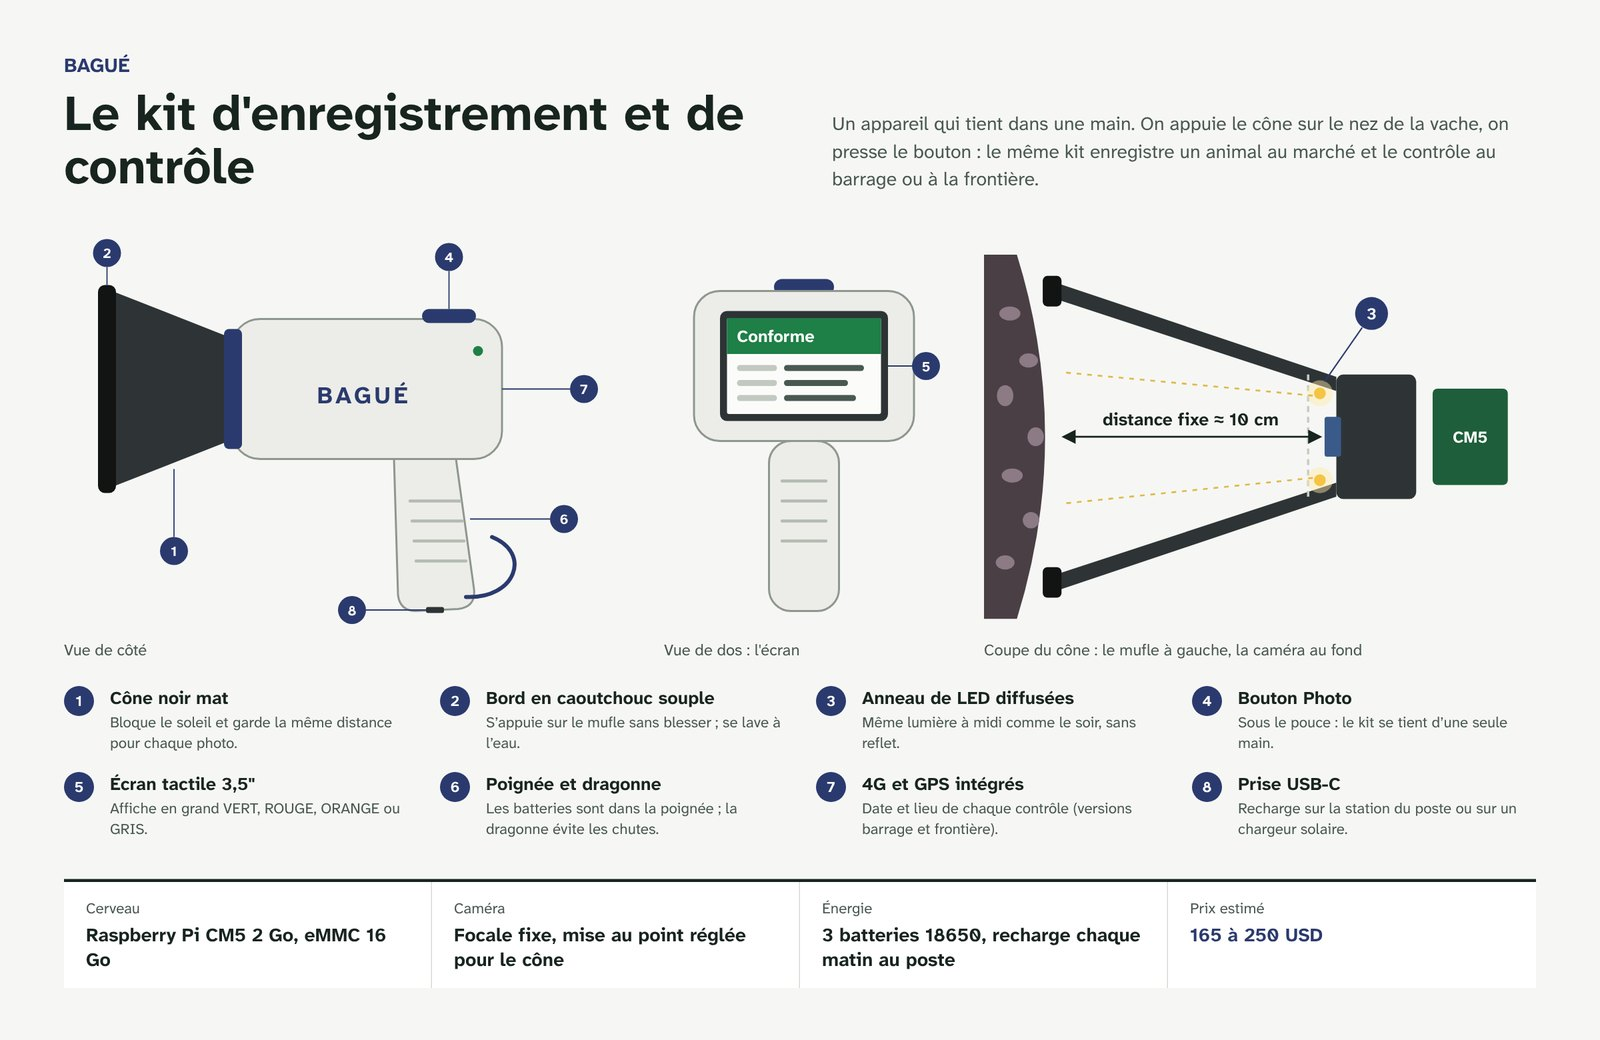
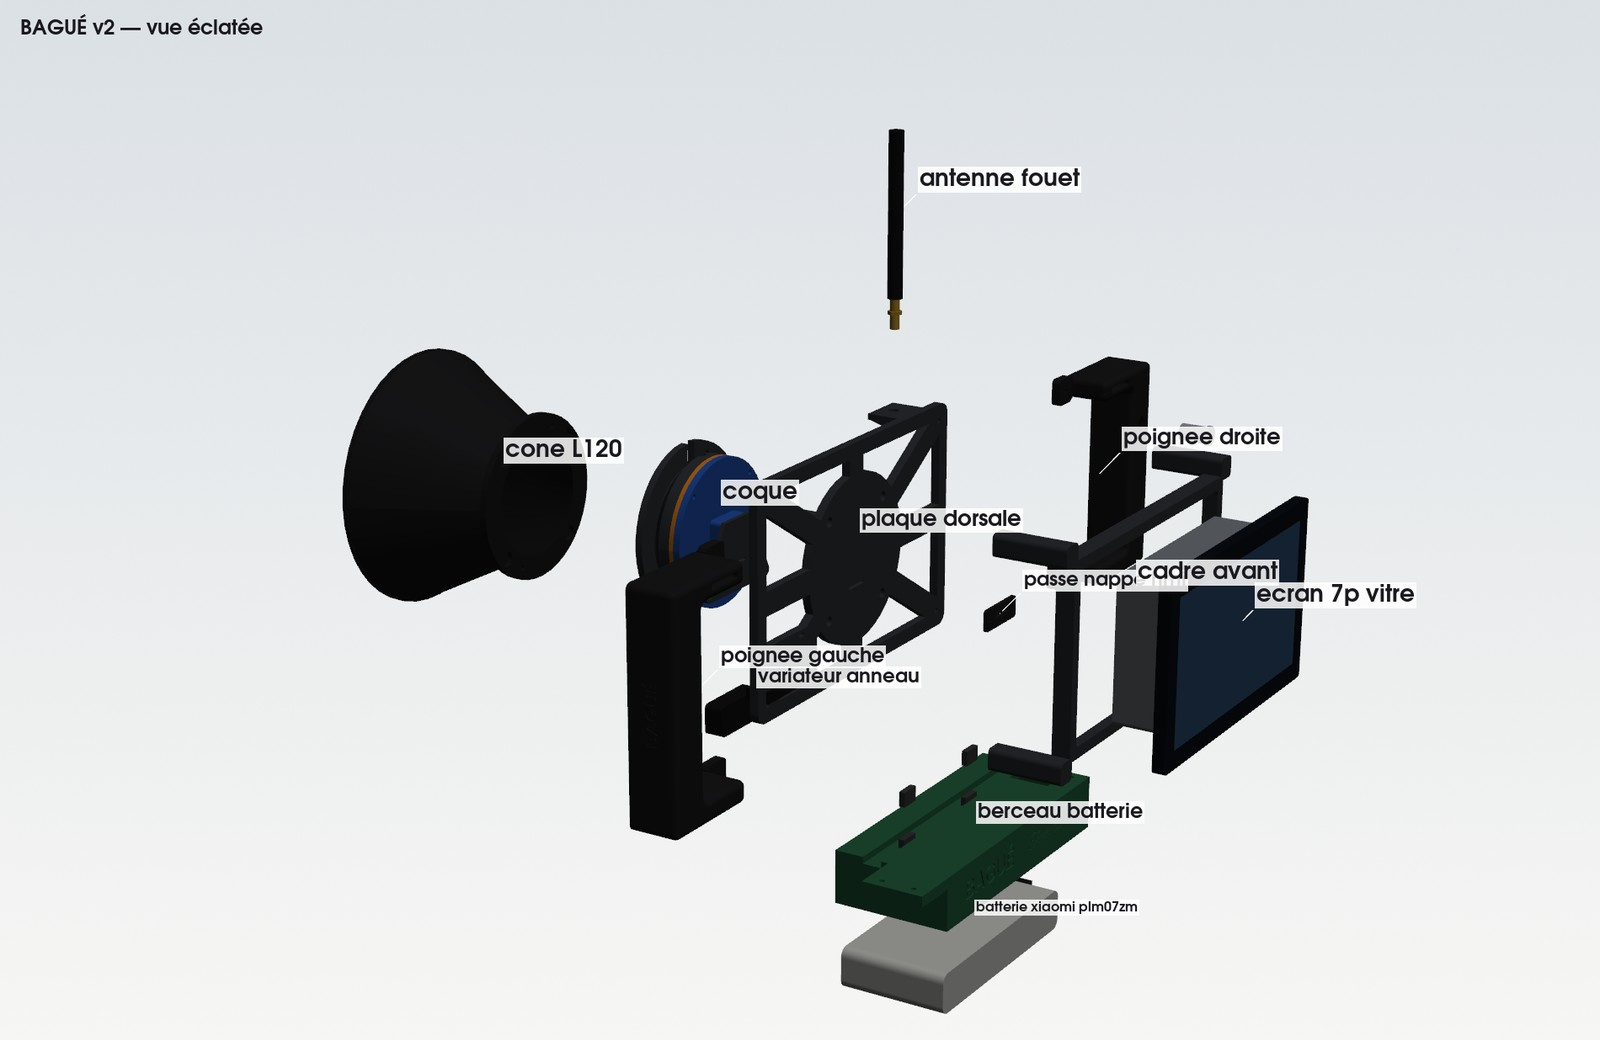
Vitrine BAGUÉ 0.4.0 — kit v2

diff --git a/site/3d.html b/site/3d.html
@@ -10,7 +10,7 @@
 <meta property="og:site_name" content="BAGUÉ">
 <meta property="og:locale" content="fr_FR">
 <meta property="og:title" content="Matériel BAGUÉ en 3D">
-<meta property="og:description" content="Faites tourner le kit de contrôle BAGUÉ et le poste fixe en 3D : cône sur le mufle, écran, poignée, batterie.">
+<meta property="og:description" content="Faites tourner le kit de contrôle BAGUÉ et le poste fixe en 3D : écran 7 pouces, deux poignées, bouton photo, cône sur le mufle, batterie.">
 <meta property="og:url" content="https://bague-guinee.github.io/bague-vitrine/3d.html">
 <meta property="og:image" content="https://bague-guinee.github.io/bague-vitrine/images/apercu.png"> <meta property="og:image:width" content="1200"> <meta property="og:image:height" content="630"> <meta property="og:image:alt" content="Le kit BAGUÉ et le logo : identifier chaque bovin par son mufle">
 <meta name="twitter:card" content="summary_large_image">
@@ -104,14 +104,15 @@
     },
     kit: {
       title: "Le kit de terrain",
-      meta: "<span><b>Usage</b> : enregistrer et contrôler</span><span><b>Cerveau</b> : Raspberry Pi CM5 2 Go</span><span><b>Prix estimé</b> : 165 à 250 USD</span>",
+      meta: "<span><b>Usage</b> : enregistrer et contrôler</span><span><b>Cerveau</b> : Raspberry Pi CM5 4 Go, écran 7 pouces</span><span><b>Prototype</b> : environ 400 USD</span>",
       items: [
-        ["Cône noir mat", "Bloque le soleil, garde la même distance pour chaque photo."],
-        ["Bord en caoutchouc", "Se pose sur le mufle sans blesser, se lave à l'eau."],
-        ["Anneau de LED", "Même lumière à midi comme le soir."],
-        ["Bouton Photo", "Sous le pouce : le kit se tient d'une main."],
-        ["Écran tactile 3,5\"", "Affiche VERT, ROUGE, ORANGE ou GRIS en grand."],
-        ["Poignée et dragonne", "Batteries 18650 dans la poignée."],
+        ["Cône noir mat aimanté", "Bloque le soleil, garde la même distance pour chaque photo. Trois longueurs, bord en caoutchouc."],
+        ["Anneau de LED", "Même lumière à midi comme le soir, intensité réglable."],
+        ["Écran tactile 7\"", "Affiche VERT, ROUGE, ORANGE ou GRIS en grand, lisible au soleil."],
+        ["Deux poignées", "Le kit se tient à deux mains, cône bien appuyé sur le mufle."],
+        ["Bouton Photo", "Sous le pouce droit : la photo se prend sans lâcher les poignées."],
+        ["Batterie 20 000 mAh", "Dans le berceau sous l'écran, échangée en une minute."],
+        ["Antenne Wi-Fi", "Envoie les contrôles dès qu'un réseau est disponible."],
       ],
     },
   };
@@ -300,43 +301,93 @@
     return g;
   }
 
-  // ---------- Le kit ----------
+  // ---------- Le kit (lecteur v2 : écran 7", deux poignées, cône aimanté) ----------
+  // Dessin simplifié du prototype v2 (mêmes proportions, en mètres), pas le fichier de fabrication.
+  function rrect(w, h, r, cx = 0, cy = 0) {
+    const s = roundedShape(w, h, r);
+    if (cx || cy) {
+      const pts = s.getPoints(8).map((p) => new THREE.Vector2(p.x + cx, p.y + cy));
+      return new THREE.Shape(pts);
+    }
+    return s;
+  }
+  // BAGUÉ et le nom de l'auteur, gravés en lettres simples sur la face avant du berceau.
+  const drawSignature = (g, w, h) => {
+    g.clearRect(0, 0, w, h);
+    g.fillStyle = "#2B3A6E"; g.textAlign = "center";
+    g.font = FONT.replace("{s}", 92); g.fillText("BAGUÉ", w * 0.3, 112);
+    g.font = FONT.replace("{s}", 54); g.fillText("Thierno Diallo", w * 0.74, 104);
+  };
+  const signatureTex = canvasTexture(1024, 160, drawSignature);
+  if (document.fonts && document.fonts.load) {
+    document.fonts.load("700 92px 'Atkinson Hyperlegible Next'")
+      .then(() => { drawSignature(signatureTex.image.getContext("2d"), 1024, 160); signatureTex.needsUpdate = true; })
+      .catch(() => {});
+  }
+
   function buildKit() {
     const g = new THREE.Group();
-    roundedBox(g, 0.2, 0.1, 0.09, 0.024, M.light, 0, 0, 0);
-    const cone = cyl(g, 0.043, 0.085, 0.13, new THREE.MeshStandardMaterial({ color: srgb(C.dark), roughness: 0.85, side: THREE.DoubleSide }), -0.165, 0, 0, 48, true);
-    cone.rotation.z = -Math.PI / 2;
-    const back = add(g, new THREE.CircleGeometry(0.043, 40), M.black, -0.1005, 0, 0); back.rotation.y = -Math.PI / 2;
-    const lens = cyl(g, 0.009, 0.009, 0.01, M.lens, -0.104, 0, 0, 20); lens.rotation.z = Math.PI / 2;
-    for (let i = 0; i < 10; i++) {
-      const a = (i / 10) * Math.PI * 2;
-      add(g, new THREE.SphereGeometry(0.0035, 10, 10), glow(0xF5C443), -0.103, Math.cos(a) * 0.03, Math.sin(a) * 0.03);
+    const coneMat = new THREE.MeshStandardMaterial({ color: srgb(C.dark), roughness: 0.85, side: THREE.DoubleSide });
+    const gold = mat(0xC9A24A, 0.35, 0.7);
+    const zAxis = (mesh) => { mesh.rotation.x = Math.PI / 2; return mesh; };
+
+    // Écran 7" dans son cadre (lèvre sur la bordure noire), boîtier CM5 derrière.
+    const frame = rrect(0.2, 0.123, 0.006);
+    frame.holes.push(rrect(0.185, 0.108, 0.004));
+    extrude(g, frame, 0.012, 0.0015, M.light, 0, 0, -0.004);
+    box(g, 0.193, 0.116, 0.008, M.black, 0, 0, -0.004);
+    plane(g, 0.158, 0.094, screenTex, 0, 0, 0.0006);
+    [[-1, -1], [1, -1], [-1, 1], [1, 1]].forEach(([sx, sy]) => box(g, 0.014, 0.014, 0.0475, M.light, sx * 0.1039, sy * 0.0654, -0.02175));
+    roundedBox(g, 0.136, 0.092, 0.0395, 0.006, M.metal, 0, 0, -0.02775);
+
+    // Plaque dorsale ajourée (porte la tête, l'antenne et le variateur).
+    const plate = rrect(0.23, 0.153, 0.008);
+    [[-1, -1], [1, -1], [-1, 1], [1, 1]].forEach(([sx, sy]) => plate.holes.push(rrect(0.04, 0.044, 0.006, sx * 0.083, sy * 0.04)));
+    extrude(g, plate, 0.006, 0.0012, M.dark, 0, 0, -0.0545);
+
+    // Deux poignées en C ; BAGUÉ sur le côté ; bouton photo sous le pouce droit.
+    [1, -1].forEach((side) => {
+      const c = new THREE.Shape([
+        [0.097, 0.0724], [0.183, 0.0724], [0.183, -0.0724], [0.097, -0.0724],
+        [0.097, -0.0584], [0.155, -0.0584], [0.155, 0.0584], [0.097, 0.0584],
+      ].map(([x, y]) => new THREE.Vector2(side * x, y)));
+      extrude(g, c, 0.032, 0.004, M.light, 0, 0, -0.0355);
+      const label = plane(g, 0.09, 0.028, sideTex, side * 0.1836, 0, -0.0355, true);
+      label.rotateY(side * Math.PI / 2);
+      label.rotateZ(Math.PI / 2);
+    });
+    zAxis(cyl(g, 0.0075, 0.0075, 0.004, M.indigo, 0.169, 0.03, -0.0175, 32));
+
+    // Berceau de la batterie sous l'écran, BAGUÉ et signature gravés devant.
+    roundedBox(g, 0.19, 0.036, 0.079, 0.006, M.light, 0.0155, -0.0904, -0.0375);
+    plane(g, 0.18, 0.028, signatureTex, 0.0155, -0.0904, 0.0021, true);
+
+    // Tête caméra : platine, colonnes, collerette, anneau de LED, puis le cône aimanté.
+    [[-1, -1], [1, -1], [-1, 1], [1, 1]].forEach(([sx, sy]) => zAxis(cyl(g, 0.005, 0.005, 0.015, M.dark, sx * 0.0325, sy * 0.0325, -0.065, 16)));
+    zAxis(cyl(g, 0.05, 0.05, 0.005, M.indigo, 0, 0, -0.0749, 48));
+    zAxis(cyl(g, 0.05, 0.05, 0.008, M.indigo, 0, 0, -0.0844, 48));
+    zAxis(cyl(g, 0.0428, 0.0428, 0.0208, M.dark, 0, 0, -0.0908, 48));
+    zAxis(cyl(g, 0.057, 0.057, 0.005, M.dark, 0, 0, -0.0989, 56));
+    const back = add(g, new THREE.CircleGeometry(0.04, 40), M.black, 0, 0, -0.1015); back.rotation.y = Math.PI;
+    zAxis(cyl(g, 0.0045, 0.0045, 0.004, M.lens, 0, 0, -0.1025, 20));
+    for (let i = 0; i < 14; i++) {
+      const a = (i / 14) * Math.PI * 2;
+      add(g, new THREE.SphereGeometry(0.0024, 10, 10), glow(0xF5C443), Math.cos(a) * 0.033, Math.sin(a) * 0.033, -0.1022);
     }
-    const rim = add(g, new THREE.TorusGeometry(0.085, 0.007, 12, 56), M.black, -0.23, 0, 0); rim.rotation.y = Math.PI / 2;
-    const collar = cyl(g, 0.05, 0.05, 0.016, M.indigo, -0.104, 0, 0, 40); collar.rotation.z = Math.PI / 2;
+    const cone = cyl(g, 0.085, 0.0404, 0.0955, coneMat, 0, 0, -0.149, 56, true);
+    cone.rotation.x = -Math.PI / 2;
+    add(g, new THREE.TorusGeometry(0.0865, 0.0045, 12, 64), M.black, 0, 0, -0.1969);
 
-    const handle = new THREE.Shape();
-    handle.moveTo(0.0, -0.04); handle.lineTo(0.058, -0.04);
-    handle.quadraticCurveTo(0.064, -0.04, 0.066, -0.05);
-    handle.lineTo(0.078, -0.16); handle.quadraticCurveTo(0.08, -0.178, 0.062, -0.178);
-    handle.lineTo(0.03, -0.18); handle.quadraticCurveTo(0.014, -0.18, 0.012, -0.165);
-    handle.lineTo(0.0, -0.05); handle.quadraticCurveTo(-0.002, -0.04, 0.0, -0.04);
-    extrude(g, handle, 0.05, 0.008, M.light, 0, 0, 0);
-    for (let i = 0; i < 4; i++) box(g, 0.05, 0.004, 0.052, M.louver, 0.042 + i * 0.003, -0.08 - i * 0.022, 0);
+    // Antenne Wi-Fi en haut à droite.
+    box(g, 0.032, 0.004, 0.022, M.dark, 0.076, 0.0744, -0.0685);
+    cyl(g, 0.0032, 0.0032, 0.012, gold, 0.076, 0.0806, -0.0695, 16);
+    cyl(g, 0.005, 0.0045, 0.108, M.black, 0.076, 0.1406, -0.0695, 20);
 
-    const button = cyl(g, 0.018, 0.018, 0.012, M.indigo, 0.035, 0.053, 0, 32);
-    add(g, new THREE.SphereGeometry(0.004, 10, 10), glow(0x1E7F47), 0.075, 0.03, 0.046);
-    plane(g, 0.12, 0.0375, sideTex, -0.005, 0.0, 0.0461, true);
-    const side2 = plane(g, 0.12, 0.0375, sideTex, -0.005, 0.0, -0.0461, true); side2.rotation.y = Math.PI;
-
-    box(g, 0.006, 0.075, 0.075, M.dark, 0.1015, 0.005, 0);
-    const scr = plane(g, 0.066, 0.0412, screenTex, 0.105, 0.005, 0); scr.rotation.y = Math.PI / 2;
-    scr.scale.set(1, 1.4, 1);
-
-    const strap = new THREE.CatmullRomCurve3([
-      new THREE.Vector3(0.065, -0.17, 0), new THREE.Vector3(0.11, -0.18, 0.01), new THREE.Vector3(0.13, -0.13, 0.0), new THREE.Vector3(0.1, -0.1, -0.01),
+    // Câble d'alimentation (batterie → boîtier).
+    const power = new THREE.CatmullRomCurve3([
+      new THREE.Vector3(0.105, -0.085, -0.04), new THREE.Vector3(0.09, -0.07, -0.036), new THREE.Vector3(0.082, -0.03, -0.033), new THREE.Vector3(0.069, -0.02, -0.03),
     ]);
-    add(g, new THREE.TubeGeometry(strap, 40, 0.004, 8, false), M.indigo);
+    add(g, new THREE.TubeGeometry(power, 30, 0.0018, 8, false), mat(0xB0322A, 0.6));
     return g;
   }
 
@@ -373,8 +424,8 @@
   const MODELS = {
     poste: { group: buildPoste(), target: new THREE.Vector3(0, 1.3, 0), dist: 4.6, floor: 0, min: 2.2, max: 9, shadow: 2,
       views: { "34": [0.62, 0.22], front: [0, 0.12], back: [Math.PI + 0.55, 0.2] } },
-    kit: { group: buildKit(), target: new THREE.Vector3(-0.025, -0.035, 0), dist: 0.85, floor: -0.186, min: 0.35, max: 2.2, shadow: 0.4,
-      views: { "34": [-0.95, 0.25], front: [-1.3, 0.12], back: [1.15, 0.22] } },
+    kit: { group: buildKit(), target: new THREE.Vector3(0, -0.012, -0.075), dist: 0.82, floor: -0.1087, min: 0.4, max: 2.4, shadow: 0.45,
+      views: { "34": [0.7, 0.26], front: [0, 0.1], back: [Math.PI - 0.6, 0.22] } },
   };
   Object.values(MODELS).forEach((m) => { m.group.visible = false; scene.add(m.group); });
   let current = null;

diff --git a/site/index.html b/site/index.html
@@ -99,7 +99,7 @@
           <a class="btn" href="3d.html">Voir le matériel en 3D</a>
         </div>
       </div>
-      <img src="images/3d-kit.jpg" alt="Le kit de contrôle BAGUÉ en 3D : un cône noir posé sur le mufle, un corps clair et une poignée" width="900" height="760">
+      <img src="images/3d-kit.jpg" alt="Le kit de contrôle BAGUÉ en 3D : écran 7 pouces, deux poignées et un cône noir posé sur le mufle" width="900" height="760">
     </div>
   </section>
 
@@ -142,9 +142,9 @@
       </figure>
       <div>
         <h2>Le matériel</h2>
-        <p><strong>Kit de terrain</strong> : Raspberry Pi CM5, caméra au fond d'un cône à LED, écran tactile, 4G et GPS, pack de batteries amovible. Environ 165 à 250 USD.</p>
+        <p><strong>Kit de terrain</strong> : Raspberry Pi CM5 et écran tactile 7 pouces, caméra au fond d'un cône aimanté à LED, deux poignées avec bouton photo, batterie 20 000 mAh amovible. Prototype : environ 400 USD.</p>
         <p><strong>Poste fixe solaire</strong> : panneau de 200 W, batterie LiFePO4, routeur 4G double SIM, imprimante, station de recharge pour quatre kits. Environ 920 à 1 520 USD.</p>
-        <p class="muted">Ce sont des conceptions : le premier kit physique n'est pas encore assemblé. Prix estimés à partir des composants, avant devis.</p>
+        <p class="muted">Le prototype du kit (version 0.4.0) est en cours d'assemblage : composants achetés à Shenzhen, pièces imprimées en 3D. Le poste fixe est une conception ; prix estimé à partir des composants, avant devis.</p>
         <div class="actions"><a class="btn" href="3d.html">Faire tourner le kit et le poste en 3D</a></div>
       </div>
     </div>
@@ -202,11 +202,12 @@
         <h2>L'équipe</h2>
         <p><strong>Thierno Diallo</strong> — technologie : IA de reconnaissance, logiciel des kits et du serveur, architecture et sécurité. Chercheur en IA embarquée, laboratoire du Pr Hongpeng Wang, Harbin Institute of Technology, Shenzhen.</p>
         <p><strong>Mamadou Kandara Souaré</strong> — ventes et opérations à Conakry : autorités, tests sur le terrain, exploitation et déploiement.</p>
+        <p class="muted">Encadrement scientifique : Pr Hongpeng Wang, Harbin Institute of Technology, Shenzhen.</p>
         <p><a href="engagement.html">Qui sommes-nous et nos engagements</a></p>
       </div>
       <div>
         <h2>Citer</h2>
-        <p class="muted">Diallo, T. I. et Souaré, M. K. (2026). <em>BAGUÉ : identification du bétail par le mufle et registre national anti-vol pour la Guinée</em>. Version 0.3.0.</p>
+        <p class="muted">Diallo, T. I. et Souaré, M. K. (2026). <em>BAGUÉ : identification du bétail par le mufle et registre national anti-vol pour la Guinée</em>. Version 0.4.0.</p>
       </div>
     </div>
   </section>

diff --git a/site/engagement.html b/site/engagement.html
@@ -111,6 +111,10 @@
           <h3>Mamadou Kandara Souaré</h3>
           <p class="muted">Basé à Conakry. Responsable des relations avec les autorités, des tests sur le terrain, de l'exploitation et du déploiement.</p>
         </div>
+        <div class="card">
+          <h3>Encadrement scientifique</h3>
+          <p class="muted">Pr Hongpeng Wang, School of Computer Science and Technology, Harbin Institute of Technology, Shenzhen. Il guide la méthode de recherche et le protocole d'évaluation.</p>
+        </div>
       </div>
     </div>
   </section>

diff --git a/README.md b/README.md
@@ -44,15 +44,15 @@ flowchart LR
 ## Le matériel
 
 <p align="center">
-  <img src="docs/images/3d-kit.jpg" alt="Le kit de terrain BAGUÉ en 3D : cône noir, corps clair, poignée" width="48%">
+  <img src="docs/images/3d-kit.jpg" alt="Le kit de terrain BAGUÉ en 3D : écran 7 pouces, deux poignées, cône noir" width="48%">
   <img src="docs/images/3d-poste.jpg" alt="Le poste fixe solaire BAGUÉ en 3D" width="38%">
 </p>
 
 | Kit de terrain | Poste fixe |
 | --- | --- |
-| Raspberry Pi CM5, caméra au fond d'un cône à LED (distance et lumière fixes), écran tactile, 4G + GPS, pack de batteries amovible. **Environ 165 à 250 USD.** | Solaire 200 W + batterie LiFePO4, routeur 4G double SIM, écran 7", imprimante thermique, station de recharge pour 4 kits. **Environ 920 à 1 520 USD.** |
+| Raspberry Pi CM5 et écran tactile 7 pouces, caméra au fond d'un cône aimanté à LED (distance et lumière fixes), deux poignées avec bouton photo, batterie 20 000 mAh amovible. **Prototype : environ 400 USD.** | Solaire 200 W + batterie LiFePO4, routeur 4G double SIM, écran 7", imprimante thermique, station de recharge pour 4 kits. **Environ 920 à 1 520 USD.** |
 
-Ce sont des **conceptions** : le premier kit physique n'est pas encore assemblé. Prix estimés à partir des composants, avant devis. Planches techniques : [kit](docs/images/planche-kit.jpg), [poste](docs/images/planche-poste.jpg), [mallette](docs/images/planche-mallette.jpg).
+Le **prototype du kit** (version 0.4.0) est en cours d'assemblage : composants achetés à Shenzhen, pièces imprimées en 3D. Le poste fixe est une **conception** ; prix estimé à partir des composants, avant devis. Planches techniques : [kit](docs/images/planche-kit.jpg), [poste](docs/images/planche-poste.jpg), [mallette](docs/images/planche-mallette.jpg).
 
 ## La recherche
 
@@ -118,6 +118,10 @@ Charte complète : [docs/ETHIQUE.md](docs/ETHIQUE.md) · [formulaire de consente
 | --- | --- |
 | **Thierno Diallo** | Technologie : IA de reconnaissance, logiciel des kits, des postes et du serveur, architecture et sécurité. Chercheur en IA embarquée (IA robuste et économe en énergie pour les milieux aux ressources limitées), laboratoire du Pr Hongpeng Wang, Harbin Institute of Technology, Shenzhen. |
 | **Mamadou Kandara Souaré** | Ventes et opérations à Conakry : présentation aux autorités, tests sur le terrain, exploitation et déploiement. |
+
+### Encadrement scientifique
+
+Ce travail de recherche est encadré par le **Pr Hongpeng Wang** (School of Computer Science and Technology, Harbin Institute of Technology, Shenzhen), qui guide la méthode de recherche et le protocole d'évaluation.
 
 ## Citer ce projet
 

diff --git a/README.en.md b/README.en.md
@@ -44,15 +44,15 @@ flowchart LR
 ## Hardware
 
 <p align="center">
-  <img src="docs/images/3d-kit.jpg" alt="BAGUÉ field kit in 3D: black cone, light body, handle" width="48%">
+  <img src="docs/images/3d-kit.jpg" alt="BAGUÉ field kit in 3D: 7-inch screen, two handles, black cone" width="48%">
   <img src="docs/images/3d-poste.jpg" alt="BAGUÉ solar fixed post in 3D" width="38%">
 </p>
 
 | Field kit | Fixed post |
 | --- | --- |
-| Raspberry Pi CM5, camera at the back of an LED-lit cone (fixed distance and lighting), touchscreen, 4G + GPS, removable battery pack. **About USD 165–250.** | 200 W solar + LiFePO4 battery, dual-SIM 4G router, 7" screen, thermal printer, charging station for 4 kits. **About USD 920–1,520.** |
+| Raspberry Pi CM5 with a 7-inch touchscreen, camera at the back of a magnetic LED-lit cone (fixed distance and lighting), two handles with a photo button, removable 20,000 mAh battery. **Prototype: about USD 400.** | 200 W solar + LiFePO4 battery, dual-SIM 4G router, 7" screen, thermal printer, charging station for 4 kits. **About USD 920–1,520.** |
 
-These are **designs**: the first physical kit has not been assembled yet. Prices estimated from components, before quotes.
+The **kit prototype** (version 0.4.0) is being assembled: parts bought in Shenzhen, 3D-printed housing. The fixed post is a **design**; price estimated from components, before quotes.
 
 ## Research
 
@@ -105,6 +105,10 @@ Full charter (French): [docs/ETHIQUE.md](docs/ETHIQUE.md).
 | --- | --- |
 | **Thierno Diallo** | Technology: recognition AI, kit, post and server software, architecture and security. Researcher in embedded AI (robust, energy-efficient AI for resource-limited settings), Prof. Hongpeng Wang's laboratory, Harbin Institute of Technology, Shenzhen. |
 | **Mamadou Kandara Souaré** | Sales and operations in Conakry: relations with authorities, field testing, operation and deployment. |
+
+### Scientific supervision
+
+This research is supervised by **Prof. Hongpeng Wang** (School of Computer Science and Technology, Harbin Institute of Technology, Shenzhen), who guides the research method and the evaluation protocol.
 
 ## Citation
 

diff --git a/docs/ARCHITECTURE.md b/docs/ARCHITECTURE.md
@@ -56,7 +56,7 @@ poste coupé = registre de sa région ; serveur central = USSD toujours disponib
 
 | Composant | Matériel | Logiciel | Données gardées |
 |---|---|---|---|
-| Kit CM5 | CM5 2 Go, eMMC 16 Go, Camera Module 3 + cône rond à LED, écran 5" sur le dessus (portrait), gâchette, 4G Cat-1 + GPS (sauf marché), 4×21700. Prototype : CM5 4 Go sur carte Waveshare CM5-IO-BASE-A, sans 4G ; fichiers 3D dans `hardware/` | Linux, appli BAGUÉ Python, ONNX Runtime, SQLite | Liste rouge, empreintes en transit et de la zone, file d'événements signés |
+| Kit CM5 | CM5 2 Go, eMMC 16 Go, Camera Module 3 + cône rond à LED, écran 5" sur le dessus (portrait), gâchette, 4G Cat-1 + GPS (sauf marché), 4×21700. Prototype v2 (0.4.0) : CM5 4 Go dans le kit Waveshare CM5-HMI-7A (écran 7 pouces), deux poignées, bouton photo, batterie 20 000 mAh, sans 4G ; fichiers 3D dans `hardware/prototype_v2/` | Linux, appli BAGUÉ Python, ONNX Runtime, SQLite | Liste rouge, empreintes en transit et de la zone, file d'événements signés |
 | Poste CM5 | CM5 4 Go, écran 7", 1–2 caméras (guichet + perche), routeur 4G double SIM, imprimante thermique, solaire 200 W + LiFePO4 100 Ah | Même appli en mode poste + serveur local de synchro | Registre régional int8 (≈ 400 Mo / 1 M vaches), liste rouge, file d'événements |
 | Serveur central | VPS puis centre national | FastAPI, PostgreSQL + pgvector, ONNX Runtime, Caddy, Docker Compose | Registre national complet |
 | Passerelle opérateurs | — | API SMS Orange Guinée, agrégateur multi-opérateurs, USSD | Journal des échanges |
